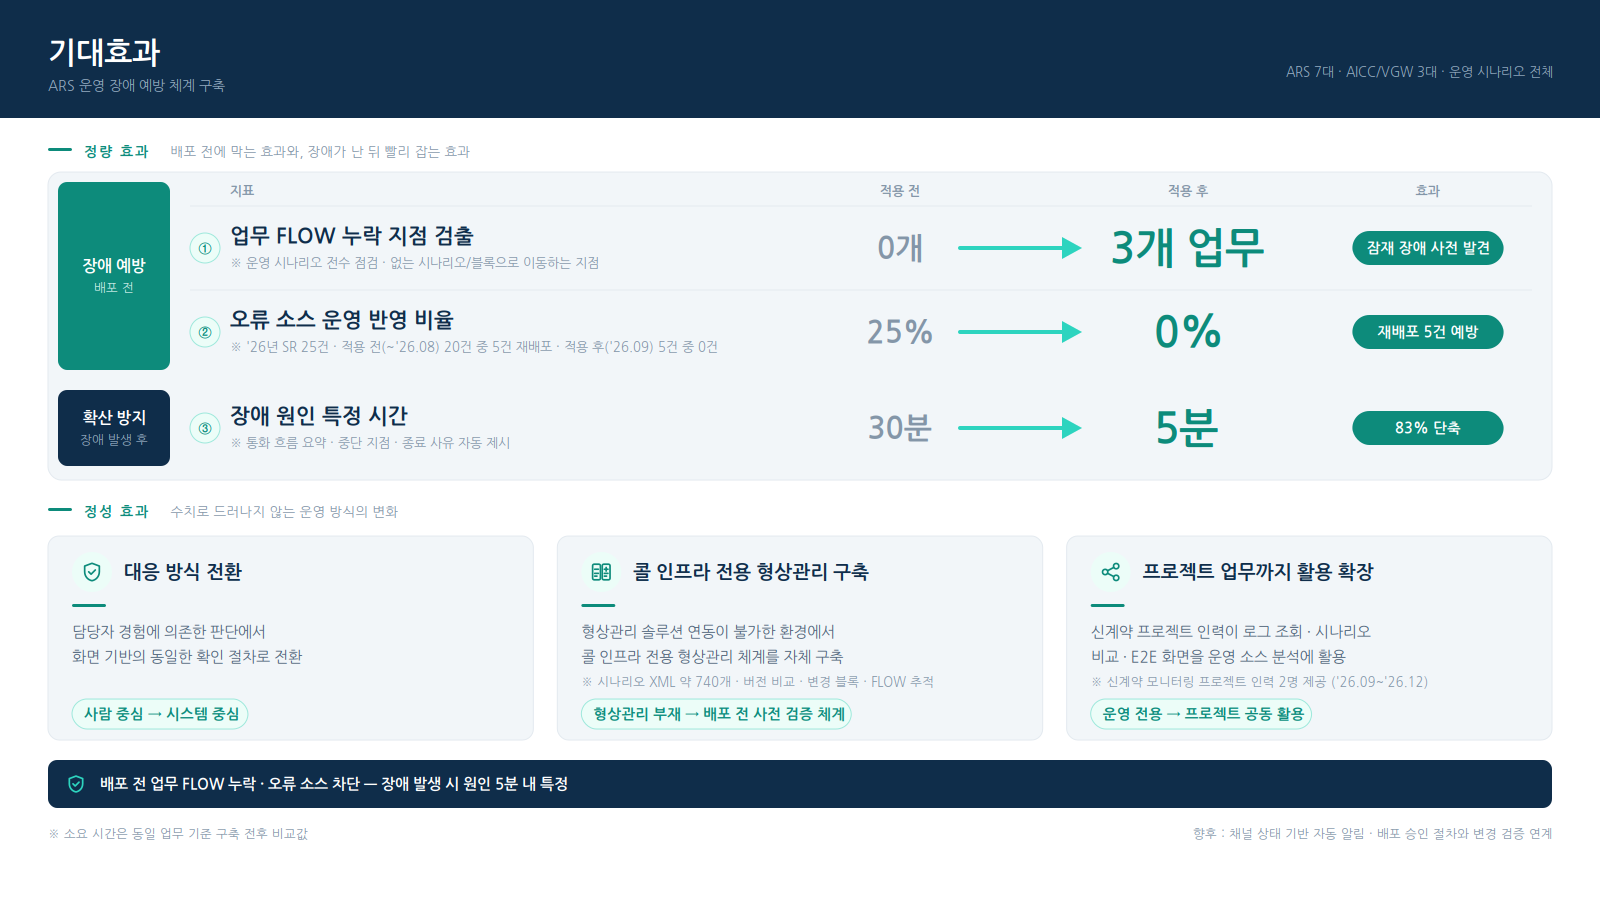
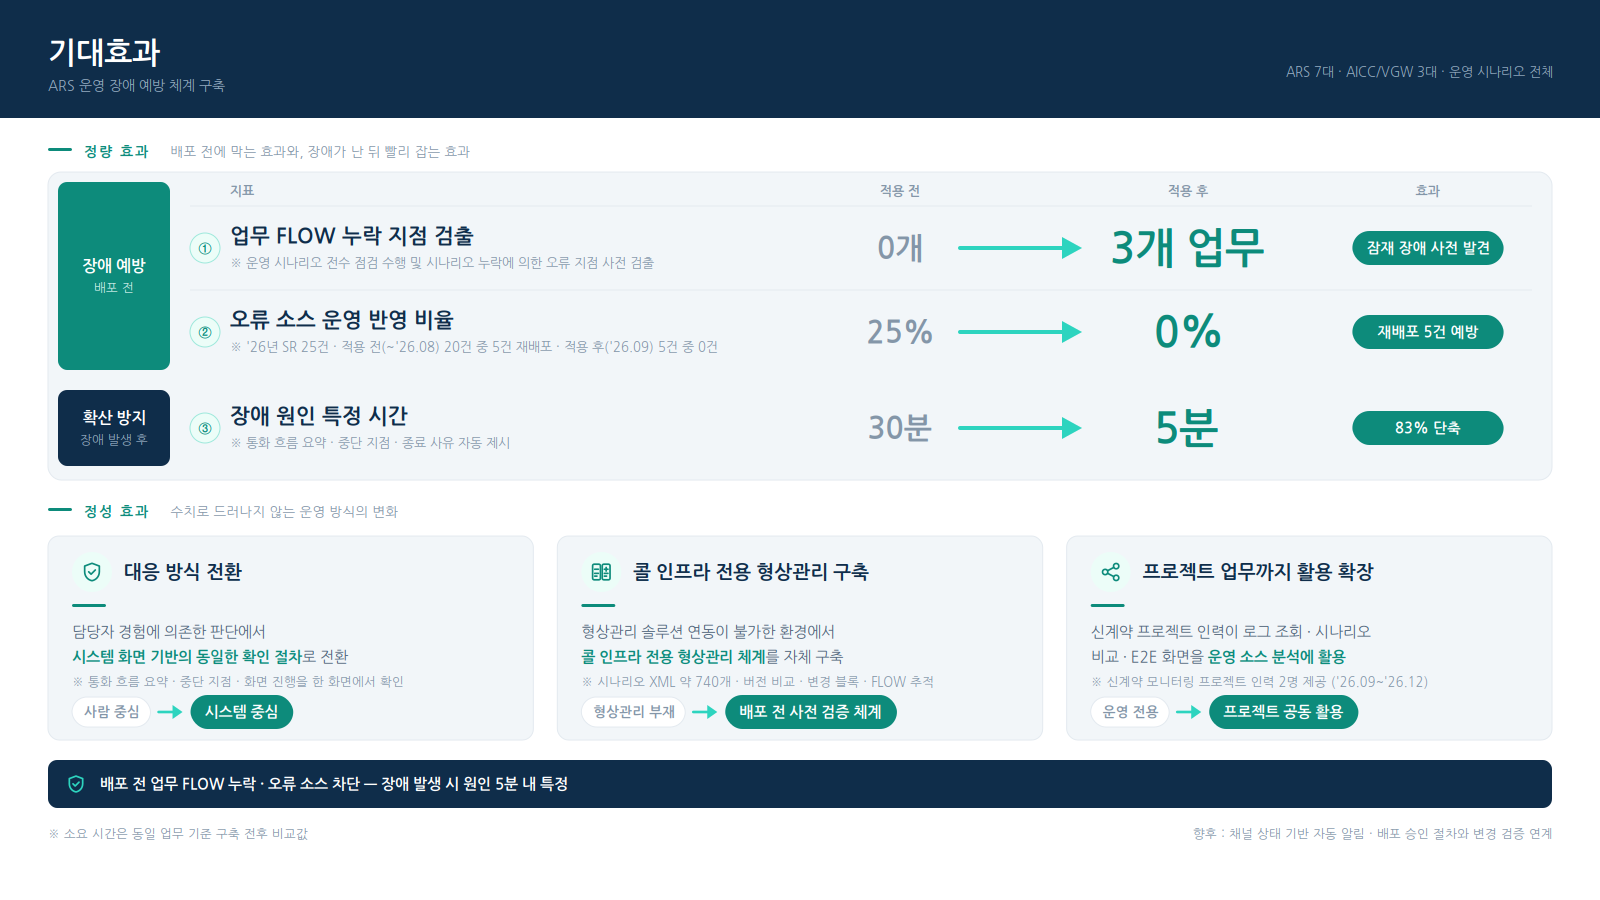
슬라이드 기대효과: ① 각주 문구 교체 · 정성 효과 변화 강조 (전→후 칩, 핵심 문구 강조색)
Claude-Session: https://claude.ai/code/session_01XWJRpE4GhpJt5TDKfWi5Ec

diff --git a/make_summary_image.py b/make_summary_image.py
@@ -145,7 +145,8 @@ QUANT = [
     {
         "group": "prevent", "no": "①", "title": "업무 FLOW 누락 지점 검출",
         "before": "0개", "after": "3개 업무", "gain": "잠재 장애 사전 발견",
-        "note": "※ 운영 시나리오 전수 점검 · 없는 시나리오/블록으로 이동하는 지점",
+        "note": "※ 운영 시나리오 전수 점검 수행 및 시나리오 누락에 의한 "
+                "오류 지점 사전 검출",
     },
     {
         "group": "prevent", "no": "②", "title": "오류 소스 운영 반영 비율",
@@ -164,20 +165,21 @@ QUAL = [
     {
         "icon": "shield", "title": "대응 방식 전환",
         "desc": ["담당자 경험에 의존한 판단에서",
-                 "화면 기반의 동일한 확인 절차로 전환"],
+                 "**시스템 화면 기반의 동일한 확인 절차**로 전환"],
+        "note": "※ 통화 흐름 요약 · 중단 지점 · 화면 진행을 한 화면에서 확인",
         "chip": "사람 중심 → 시스템 중심",
     },
     {
         "icon": "diff", "title": "콜 인프라 전용 형상관리 구축",
         "desc": ["형상관리 솔루션 연동이 불가한 환경에서",
-                 "콜 인프라 전용 형상관리 체계를 자체 구축"],
+                 "**콜 인프라 전용 형상관리 체계**를 자체 구축"],
         "note": "※ 시나리오 XML 약 740개 · 버전 비교 · 변경 블록 · FLOW 추적",
         "chip": "형상관리 부재 → 배포 전 사전 검증 체계",
     },
     {
         "icon": "share", "title": "프로젝트 업무까지 활용 확장",
         "desc": ["신계약 프로젝트 인력이 로그 조회 · 시나리오",
-                 "비교 · E2E 화면을 운영 소스 분석에 활용"],
+                 "비교 · E2E 화면을 **운영 소스 분석에 활용**"],
         "note": "※ 신계약 모니터링 프로젝트 인력 2명 제공 ('26.09~'26.12)",
         "chip": "운영 전용 → 프로젝트 공동 활용",
     },
@@ -552,6 +554,25 @@ def TC(x, cy, s, size=15, fill=None, weight="400", anchor="middle",
     """
     return T(x, cy + size * 0.315, s, size=size, fill=fill, weight=weight,
              anchor=anchor, spacing=spacing, keep=keep, ghost=ghost)
+
+
+def TRC(x, cy, s, size=15, fill=None, hl=None, weight="400", hl_weight="700"):
+    """세로 가운데 · 왼쪽 정렬 텍스트. **굵게** 로 감싼 부분만 강조색으로 그린다."""
+    parts = s.split("**")
+    plain = "".join(parts)
+    if BLANK or len(parts) == 1:
+        return TC(x, cy, plain, size=size, fill=fill, weight=weight, anchor="start")
+    spans = []
+    for i, p in enumerate(parts):
+        if not p:
+            continue
+        if i % 2:
+            spans.append(f'<tspan font-weight="{hl_weight}" fill="{hl}">{esc(p)}</tspan>')
+        else:
+            spans.append(esc(p))
+    return (f'<text x="{x}" y="{cy + size * 0.315}" font-family="{FONT}" '
+            f'font-size="{size}" font-weight="{weight}" fill="{fill or C["ink"]}">'
+            + "".join(spans) + '</text>')
 
 
 def R(x, y, w, h, r=10, fill="none", stroke=None, sw=1):
@@ -976,13 +997,24 @@ def build_effect():
                     fill=N["ink"], anchor="start"))
         g.append(R(px, top + 68, 34, 3, r=1.5, fill=N["teal_dk"]))
         for j, ln in enumerate(q["desc"]):
-            g.append(TC(px, top + 96 + j * 25, ln, size=15, fill=N["sub"],
-                        anchor="start"))
+            g.append(TRC(px, top + 96 + j * 25, ln, size=15, fill=N["sub"],
+                         hl=N["teal_dk"]))
         if q.get("note"):
             g.append(TC(px, top + 146, q["note"], size=12.5, fill=N["mute"],
                         anchor="start"))
-        c, _ = chipc(px, top + qh - 26, q.get("chip", ""), 14.5, N["teal_dk"],
-                     N["teal_soft"], N["teal_line"], padx=12, h=30)
+        # 바뀌기 전(흐린 칩) → 바뀐 뒤(진한 칩) — 바뀐 쪽이 먼저 눈에 들어오게
+        cy_ = top + qh - 28
+        bef, _, aft = q.get("chip", "").partition(" → ")
+        c, w1 = chipc(px, cy_, bef, 13.5, N["mute"], "#FFFFFF", N["line"],
+                      padx=12, h=30)
+        g.append(c)
+        ax_ = px + w1 + 8
+        g.append(f'<path d="M {ax_},{cy_} h 16" stroke="{N["teal"]}" '
+                 f'stroke-width="2.6" stroke-linecap="round"/>')
+        g.append(f'<path d="M {ax_ + 14},{cy_ - 7} L {ax_ + 24},{cy_} '
+                 f'L {ax_ + 14},{cy_ + 7} Z" fill="{N["teal"]}"/>')
+        c, _ = chipc(ax_ + 32, cy_, aft, 15, "#FFFFFF", N["teal_dk"], None,
+                     padx=14, h=34)
         g.append(c)
 
     # 맨 아래 한 줄 — 장표의 결론
